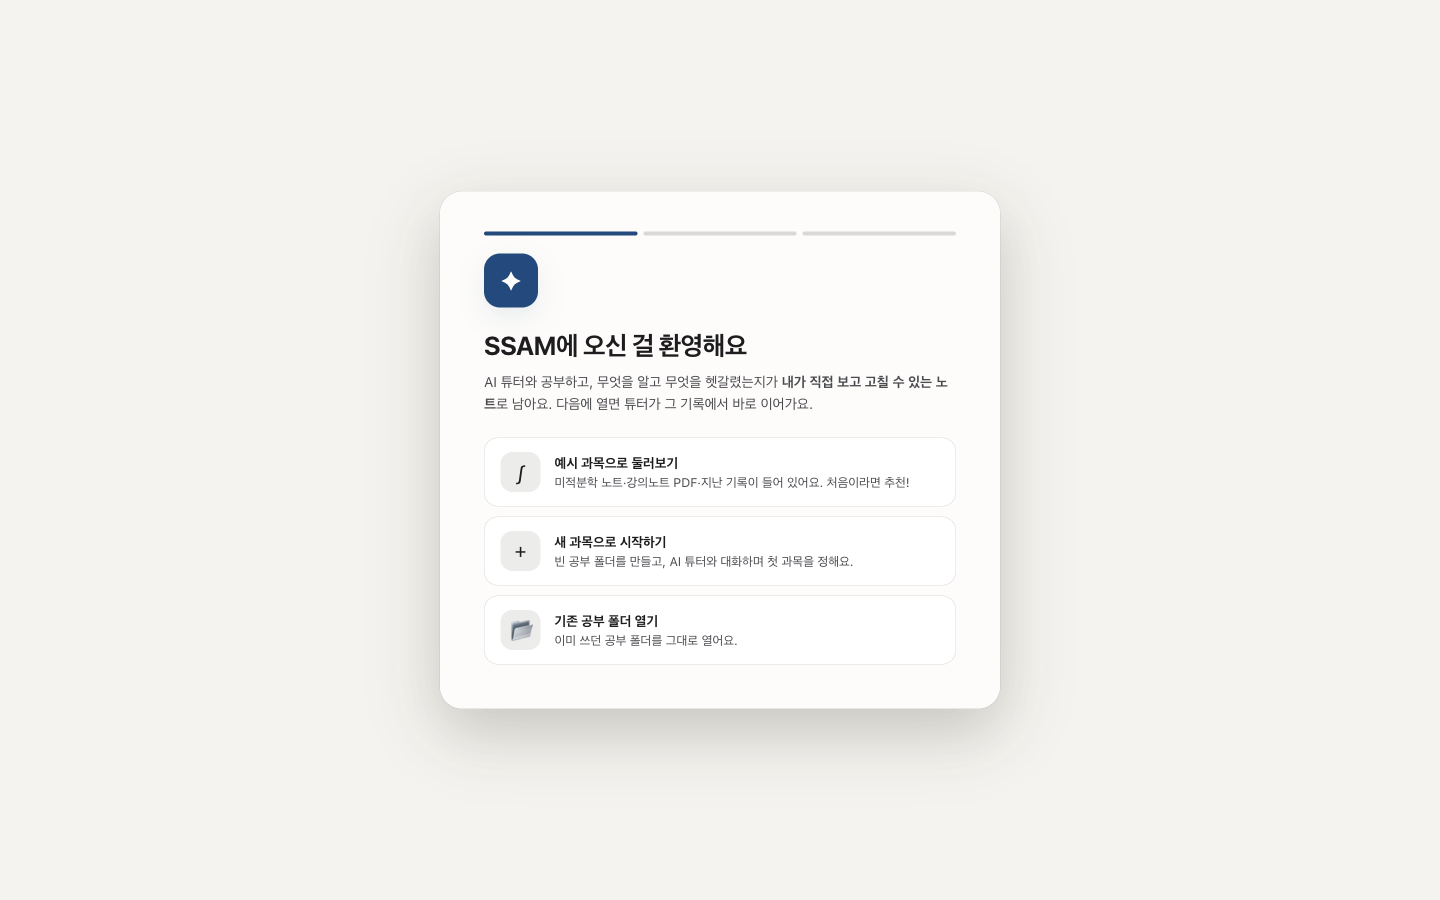
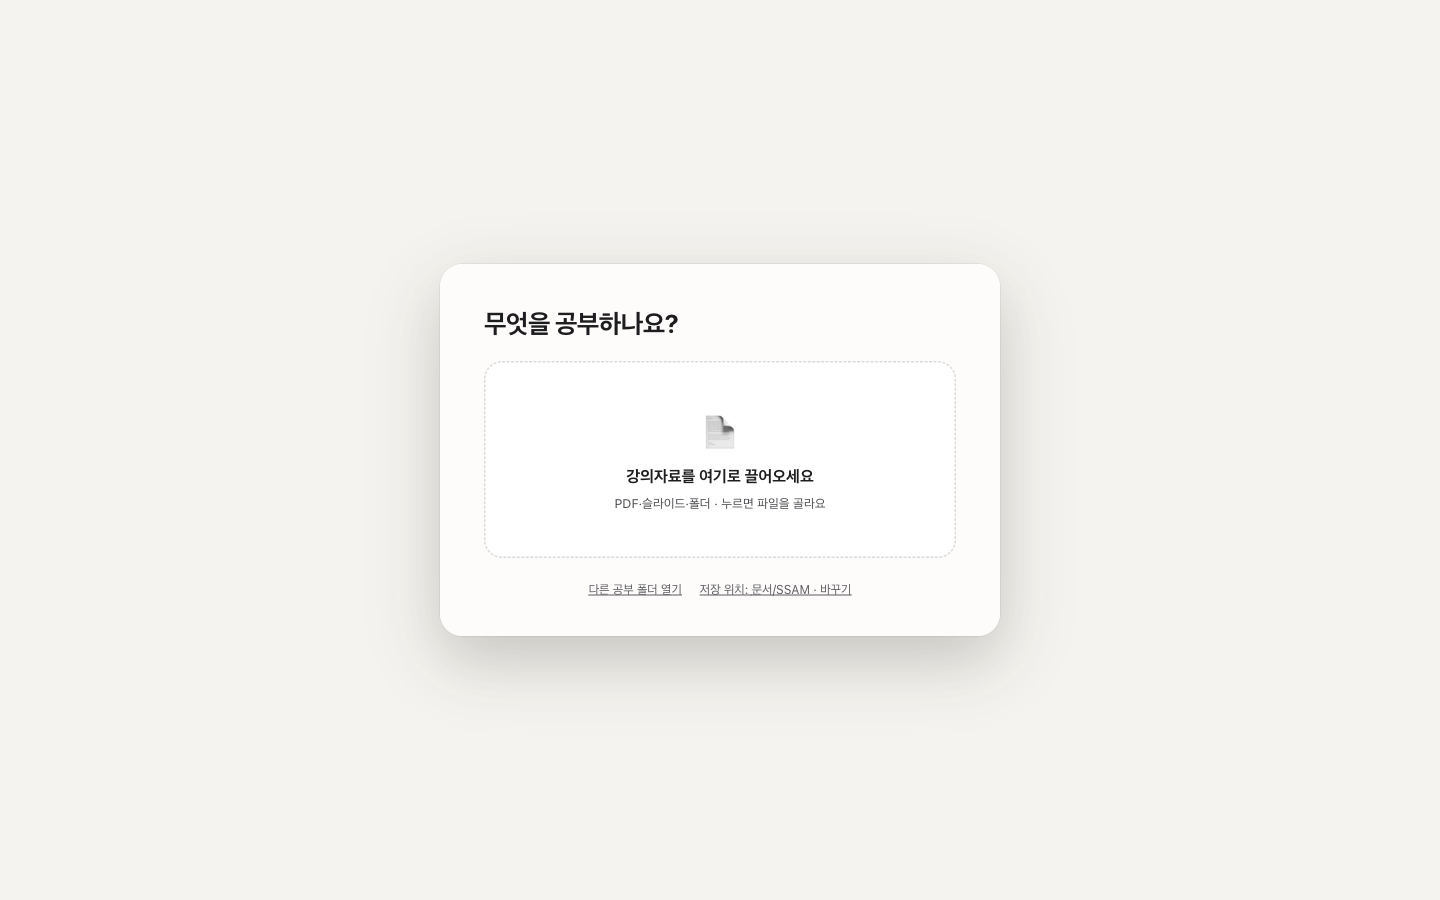
사이트 갱신 (2cd6d55)

Changed region(s): [[0.2812, 0.5911, 0.7188, 0.8089], [0.3125, 0.2489, 0.6562, 0.56]]

diff --git a/docs/index.html b/docs/index.html
@@ -414,9 +414,9 @@ footer a { color: var(--muted); }
       <div class="feature">
         <div class="f-text">
           <h3>설명이 버거우면 🧠 인지부하 온다</h3>
-          <p>답변 아래 버튼을 누르면 복잡한 내용을 핵심 한 줄 요약과 3~5개의 짧은 단계로 나누어 차근차근 다시 풀어 줘요.</p>
+          <p>답변 아래 버튼을 누르면 설명에서 막힌 조각 하나만 골라, 한 줄 요약과 비유나 숫자 하나로 더 쉽게 다시 풀어 줘요. 이미 쉬운 부분은 되풀이하지 않아요.</p>
           <ul>
-            <li>단계는 순서대로 하나씩 열리고, 필요하면 맨 끝에 적용 문제 하나로 이해도를 짚어요.</li>
+            <li>계산 절차처럼 실제로 순서가 있는 내용이면 짧은 단계로 나눠 하나씩 열어 보여 줘요.</li>
             <li>이해하기 어려운 단계는 '이 단계에서 막혀요'를 눌러 더 잘게 쪼갤 수 있어요.</li>
             <li>답변 전체가 아니라 헷갈리는 특정 문단만 드래그해서 쪼개 달라고 해도 돼요.</li>
           </ul>
@@ -444,6 +444,7 @@ footer a { color: var(--muted); }
             <li>바로가기는 입력창 왼쪽 <strong>＋</strong> 하나에 모여 있어요(공부·기록·자료 묶음). 입력창 첫 글자로 <code>/</code>를 쳐도 열리고, 지금 할 만한 제안은 입력창 위 칩 하나로만 떠요.</li>
             <li><strong>＋</strong> 메뉴의 <strong>복습하자</strong>로 범위를 고르거나 "3장 내용으로 퀴즈 5개 내줘"처럼 요청하면 문제를 모아서 내주고, 내가 적은 답안을 한 번에 채점해 줘요.</li>
             <li>"용어는 원어로 설명해줘"처럼 공부 선호도를 말하면 튜터가 기억하고, 버튼 한 번으로 <strong>나의 맥락</strong>에 저장해 다음 대화에도 이어가요.</li>
+            <li>설정에서 <strong>쉬는 동안 기록 점검</strong>을 켜면, 여러 날 반복된 공부 습관을 "~할 때는 ~해 줘" 꼴로 제안해요. 내가 저장한 것만 <strong>나의 맥락</strong>에 들어가고, 이런 선호는 설명 방식에만 쓰여 정답 판정은 바뀌지 않아요.</li>
             <li>설정 → 화면 메뉴에서 튜터 글씨 크기를 읽기 편한 크기로 조절할 수 있어요.</li>
           </ul>
         </div>
@@ -452,10 +453,10 @@ footer a { color: var(--muted); }
       <div class="feature">
         <div class="f-text">
           <h3>공부를 마칠 땐 기록 카드</h3>
-          <p><strong>오늘은 여기까지</strong>를 누르면 오늘 배운 개념, 헷갈린 내용, 맞힌 문제와 틀린 문제, 다음 공부 시작점을 한 장의 카드로 정리해 줘요. 정리는 뒤에서 하니까 그동안 계속 물어봐도 돼요. 정리 카드는 채팅 맨 아래에 남아서 그 뒤에 더 물어봐도 사라지지 않고, 준비되면 알림으로 알려 줘요. 다른 창을 보고 있으면 맥 알림도 떠요.</p>
+          <p><strong>지금까지 정리하기</strong>를 누르거나 "오늘은 여기까지", "이거 정리해두자"라고 말하면 오늘 배운 개념, 헷갈린 내용, 맞힌 문제와 틀린 문제, 다음 공부 시작점을 한 장의 카드로 정리해 줘요. 정리는 뒤에서 하니까 그동안 계속 물어봐도 돼요. 정리 카드는 채팅 맨 아래에 남아서 그 뒤에 더 물어봐도 사라지지 않고, 저장하기 전에 또 정리하면 새 카드가 앞 카드를 대신해요. 카드가 준비되면 알림으로 알려 줘요. 다른 창을 보고 있으면 맥 알림도 떠요.</p>
           <p>노트에 어떻게 반영될지 미리 확인하고 내용을 직접 고칠 수 있어요. 튜터의 정답 판정이 잘못됐다면 클릭해서 바로 수정할 수 있어요.</p>
           <p>저장한 뒤에도 안심이에요. 저장할 때마다 바뀌기 전 노트가 남아서, 노트 아래 <strong>이전 판</strong>에서 골라 되돌릴 수 있어요.</p>
-          <p>노트는 단순 대화 복사본이 아니라 혼자 다시 복습할 수 있는 교재 형태로 다듬어져 저장돼요. 오답은 <strong>자주 틀리는 것</strong>에 모이고, 다시 볼 항목에는 알맞은 복습 일정이 자동으로 잡혀요. 복습 날짜는 앱이 정해서, 맞힌 정도에 따라 다음 날·3일 뒤·7일 뒤로 미루거나 목록에서 빼요. 과목 홈의 복습할 것 줄에 마우스를 올리면 <strong>복습하기·내일 다시·빼기</strong> 버튼이 나오고, 카드에는 이번에 바뀌는 복습 항목이 줄마다 보여요.</p>
+          <p>노트는 단순 대화 복사본이 아니라 혼자 다시 복습할 수 있는 교재 형태로 다듬어져 저장돼요. 오답은 <strong>자주 틀리는 것</strong>에 모이고, 다시 볼 항목에는 알맞은 복습 일정이 자동으로 잡혀요. 복습 날짜는 앱이 정해서, 맞힌 정도에 따라 다음 날·3일 뒤·7일 뒤·21일 뒤로 미루거나 목록에서 빼요. 과목 홈에 시험 날짜를 적어 두면 시험 일주일 전쯤 한 번 더 꺼내도록 복습일을 당겨요. 과목 홈의 복습할 것 줄에 마우스를 올리면 <strong>복습하기·내일 다시·빼기</strong> 버튼이 나오고, 카드에는 이번에 바뀌는 복습 항목이 줄마다 보여요.</p>
           <p>PDF의 회로·파형·그래프처럼 글로 대신할 수 없는 그림은 잘라서 설명 바로 아래에 자료 이름·쪽 캡션과 함께 넣어요. 카드에서 그림마다 <strong>쪽 전체로</strong>·<strong>빼기</strong>를 고를 수 있어요.</p>
         </div>
         <div class="f-shot"><img src="screenshots/06-proposal.png" width="1440" height="900" loading="lazy" alt="오늘 배운 개념과 다음 시작점이 정리된 기록 카드"></div>
@@ -608,13 +609,13 @@ footer a { color: var(--muted); }
   <div class="wrap">
     <p class="eyebrow">사용법</p>
     <h2 class="sec-title">공부 한 번은 네 단계면 돼요</h2>
-    <p class="sec-lead">앱 안의 <strong>처음 해 볼 것</strong> 목록을 따라 순서대로 진행해 볼 수 있어요.</p>
+    <p class="sec-lead">처음 열면 강의자료를 끌어다 놓는 화면 하나만 나와요. 과목 이름만 확인하면 바로 시작해요.</p>
 
     <div class="flow">
       <div class="flow-item"><span class="n">1</span><h3>강의자료 열기</h3><p>왼쪽 과목 목록에서 PDF를 누르거나 새 파일을 끌어다 놓아 추가해요. 앱을 켜면 가운데 '오늘' 화면에서 다음 시작할 과목을 골라 바로 시작할 수도 있어요.</p></div>
       <div class="flow-item"><span class="n">2</span><h3>튜터에게 물어보기</h3><p>궁금한 점을 편하게 질문하세요. 튜터가 정리해 둔 노트와 강의자료를 살펴보고 답변해 줘요. 답변 속 <span class="src">p.4</span> 출처를 누르면 해당 페이지가 바로 열려요.</p></div>
-      <div class="flow-item"><span class="n">3</span><h3>어려우면 🧠</h3><p>답변 아래 <strong>인지부하 온다</strong>를 누르면 작은 단계로 나누어 차근차근 다시 설명해요.</p></div>
-      <div class="flow-item"><span class="n">4</span><h3>오늘은 여기까지</h3><p>정리가 끝나면 채팅 맨 아래에 학습 기록 카드가 떠요. 확인하고 저장하면, 다음엔 <strong>이어서 공부하기</strong>로 곧바로 시작해요.</p></div>
+      <div class="flow-item"><span class="n">3</span><h3>어려우면 🧠</h3><p>답변 아래 <strong>인지부하 온다</strong>를 누르면 막힌 부분 하나만 더 쉽게 다시 설명해요.</p></div>
+      <div class="flow-item"><span class="n">4</span><h3>지금까지 정리하기</h3><p>입력창 아래 <strong>■ 지금까지 정리하기</strong>를 누르거나 "오늘은 여기까지"라고 말해요. 정리가 끝나면 채팅 맨 아래에 학습 기록 카드가 떠요. 확인하고 저장하면, 다음엔 <strong>이어서 공부하기</strong>로 곧바로 시작해요.</p></div>
     </div>
 
     <h3 class="sub-title" id="tutorial">직접 눌러 보며 따라 해 보기</h3>
@@ -679,11 +680,6 @@ footer a { color: var(--muted); }
         <h3>Codex CLI</h3>
         <p>터미널에서 <code>codex login</code> 인증을 마친 환경이라면 추가 설정 없이 곧바로 연결돼요.</p>
       </div>
-      <div class="ai">
-        <span class="tag plain">인터넷 없이</span>
-        <h3>연결 없이 둘러보기 (Mock)</h3>
-        <p>외부 AI 연결 없이 앱의 화면과 공부 흐름을 미리 둘러보는 시연 모드예요. 쓰는 동안 입력창에 '시연용 Mock · AI 연결' 표시가 늘 보여요.</p>
-      </div>
     </div>
     <div class="ai-shot"><img src="screenshots/07-settings-ai.png" width="1440" height="900" loading="lazy" alt="설정의 AI 연결 탭"></div>
   </div>
@@ -744,8 +740,8 @@ footer a { color: var(--muted); }
         <div class="a"><p>AI 연결 세션이 끊겼거나 다시 로그인이 필요한 상태예요. 모델 칩을 누르거나 설정(<kbd>⌘,</kbd>) → AI 연결에서 다시 로그인해 보세요. 학교나 회사 계정은 관리자가 외부 앱 연동을 막아 두었을 수 있으니 개인 Plus/Pro 계정 로그인을 권장해요.</p></div>
       </details>
       <details>
-        <summary>입력창에 "시연용 Mock · AI 연결"이 보여요</summary>
-        <div class="a"><p>아직 실제 AI를 연결하지 않아 시연용 튜터로 동작하는 상태예요. 답은 정해진 패턴으로 나오고 구독 사용량을 쓰지 않아요. 그 표시를 누르거나 설정(<kbd>⌘,</kbd>) → AI 연결에서 <strong>ChatGPT로 로그인</strong>을 하면 실제 AI로 답해요.</p></div>
+        <summary>입력창 대신 "튜터가 답하려면 AI 연결이 필요해요"가 보여요</summary>
+        <div class="a"><p>아직 AI를 연결하지 않았거나 로그인이 풀린 상태예요. 그 카드에서 <strong>ChatGPT로 로그인</strong>을 하거나 설정(<kbd>⌘,</kbd>) → AI 연결에서 연결하면 입력창이 다시 나와요.</p></div>
       </details>
       <details>
         <summary>스캔한 PDF도 인식하나요?</summary>
@@ -797,7 +793,7 @@ footer a { color: var(--muted); }
 <section class="final">
   <div class="wrap">
     <h2>오늘 공부할 강의자료 하나로 가볍게 시작해 보세요</h2>
-    <p>예시 과목 둘러보기로 5분 만에 사용법을 익힐 수 있어요.</p>
+    <p>강의자료를 끌어다 놓고 과목 이름만 확인하면 바로 공부를 시작해요.</p>
     <div class="dl-row">
       <a class="btn btn-dl" data-dl="auto" href="https://github.com/DH-WEST-coder/team4-study-releases/releases/latest">
         <svg viewBox="0 0 24 24" aria-hidden="true"><path d="M12 4v11m0 0-4.5-4.5M12 15l4.5-4.5M5 19.5h14" fill="none" stroke="currentColor" stroke-width="2" stroke-linecap="round" stroke-linejoin="round"/></svg>
@@ -918,9 +914,9 @@ footer a { color: var(--muted); }
 
   // 따라 해 보기: tour/tour.json 은 tests/e2e/site-tour.spec.ts 가 캡처하면서 버튼 위치를 적어 둔 것
   var TOUR = [
-    { id: '01-welcome', title: '첫 화면에서 시작 방법 고르기',
-      body: '처음 써보신다면 예시 과목으로 둘러보기를 추천해요. 미적분학 노트와 강의 PDF, 이전 공부 기록이 담긴 샘플 폴더가 자동으로 생성돼요. 내 과목은 나중에 언제든 새로 만들거나 연결할 수 있어요.',
-      action: '예시 과목으로 둘러보기를 눌러보세요.' },
+    { id: '01-welcome', title: '첫 화면에 강의자료 끌어다 놓기',
+      body: '처음 열면 이 화면 하나만 나와요. PDF·슬라이드나 과목 폴더를 놓으면 파일 이름에서 과목 이름을 짐작해 채워 두고, 공부 시작하기를 누르면 문서/SSAM에 공부 폴더와 과목 홈이 생겨요. 이 따라 해 보기는 미적분학 예시 과목으로 이어져요.',
+      action: '가운데 칸을 눌러보세요.' },
     { id: '02-open', title: '강의자료 열기',
       body: '왼쪽 목록의 강의자료에서 PDF를 확인하세요. 🔒 표시는 원본 파일이 실수로 바뀌지 않도록 보호한다는 뜻이에요. 새 강의자료는 + 자료 추가를 누르거나 목록으로 끌어다 놓으면 들어가요.',
       action: '강의노트 PDF를 눌러 열어보세요.' },
@@ -939,14 +935,14 @@ footer a { color: var(--muted); }
     { id: '07-select', title: 'PDF에서 드래그해서 묻기',
       body: 'PDF 본문에서 헷갈리는 문장을 마우스로 드래그하면 버튼이 떠요. 선택한 문장과 페이지 정보가 질문에 자동으로 붙어서, 긴 설명 없이 바로 물어볼 수 있어요.',
       action: '튜터에게 묻기를 눌러보세요.' },
-    { id: '08-close', title: '마칠 때는 오늘은 여기까지',
-      body: '공부를 끝낼 때 버튼을 누르면 튜터가 오늘 나눈 대화를 정리해요. 정리가 끝나면 채팅 맨 아래에 기록 카드가 뜨고, 그 뒤에 더 물어봐도 카드는 맨 아래에 남아요. 다른 창을 보고 있으면 알림으로도 알려 줘요.',
-      action: '오늘은 여기까지를 눌러보세요.' },
+    { id: '08-close', title: '마칠 때는 지금까지 정리하기',
+      body: '공부를 끝낼 때 버튼을 누르거나 "오늘은 여기까지"라고 말하면 튜터가 나눈 대화를 정리해요. 정리가 끝나면 채팅 맨 아래에 기록 카드가 뜨고, 그 뒤에 더 물어봐도 카드는 맨 아래에 남아요. 다른 창을 보고 있으면 알림으로도 알려 줘요.',
+      action: '지금까지 정리하기를 눌러보세요.' },
     { id: '09-save', title: '기록 카드 확인하고 저장',
       body: '오늘 배운 개념, 헷갈린 내용, 맞힌 문제와 틀린 문제, 바뀌는 복습 항목, 다음 시작점이 정리돼요. 이번 대화에서 본 PDF 그림도 설명 바로 아래에 들어가고, 카드에서 그림마다 쪽 전체로·빼기를 고를 수 있어요.',
       action: '노트 N개 저장을 누르면 내 노트에 남아요. 다음엔 이어서 공부하기로 여기서 시작해요.' },
     { id: '10-connect', title: '내 AI 연결하기',
-      body: '지금까지 체험한 답변은 연습용 튜터의 예시였어요. 설정(⌘,)의 AI 연결에서 쓰던 구독을 연결하면 내 실제 자료를 바탕으로 질문에 답변해 줘요. ChatGPT가 추천이고, Claude Code나 Codex CLI는 고급에 있어요. 연결 없이 쓰는 동안은 입력창에 시연용 Mock 표시가 보여요.',
+      body: '지금까지 체험한 답변은 연습용 튜터의 예시였어요. 설정(⌘,)의 AI 연결에서 쓰던 구독을 연결하면 내 실제 자료를 바탕으로 질문에 답변해 줘요. ChatGPT가 추천이고, Claude Code나 Codex CLI는 고급에 있어요. 실제 앱에서는 연결하기 전까지 입력창 자리에 이 연결 카드가 보여요.',
       action: 'ChatGPT로 로그인을 누르고 브라우저에서 승인해 보세요.' }
   ];
   var BUTTONS = [
@@ -961,7 +957,7 @@ footer a { color: var(--muted); }
     ['newchat', '새 대화', '지금 대화를 두고 새로운 주제로 공부를 시작해요. 튜터 칸 위쪽의 새 대화 버튼이나 ⋯ 메뉴의 새 대화로 시작해요. 앱을 켜면 가운데는 오늘 화면, 튜터는 빈 새 대화로 시작해요.'],
     ['tutorfold', '튜터 접기 (⌘L)', '튜터 패널을 접고 펼쳐요. 펼치면 입력창에 바로 커서가 가요.'],
     ['shortcuts', '＋ 숏컷 메뉴', '입력창 왼쪽 ＋를 누르면 이어서 공부하기, 복습하자(범위 선택), 이해 확인 등 자주 쓰는 요청이 공부·기록·자료로 묶여 나와요. 입력창에서 /를 쳐도 열리고, 공부 방식(꼼꼼히·훑기·과제 풀이)은 입력창 오른쪽 아래 드롭다운에서 골라요.'],
-    ['overload', '🧠 인지부하 온다', '방금 받은 답변을 작은 단계로 나누어 하나씩 차근차근 다시 설명해요.'],
+    ['overload', '🧠 인지부하 온다', '방금 받은 답변에서 막힌 부분 하나만 골라 더 쉽게 다시 설명해요.'],
     ['input', '질문 입력창', '궁금한 점을 자유롭게 입력해요. Enter로 보내고 Shift+Enter로 줄을 바꿔요.'],
     ['attach', '파일·이미지 첨부', '입력창 왼쪽 ＋ 메뉴 맨 위에서 파일이나 이미지를 질문에 함께 붙여요. 화면 캡처를 붙여넣어 물어봐도 돼요.']
   ];
